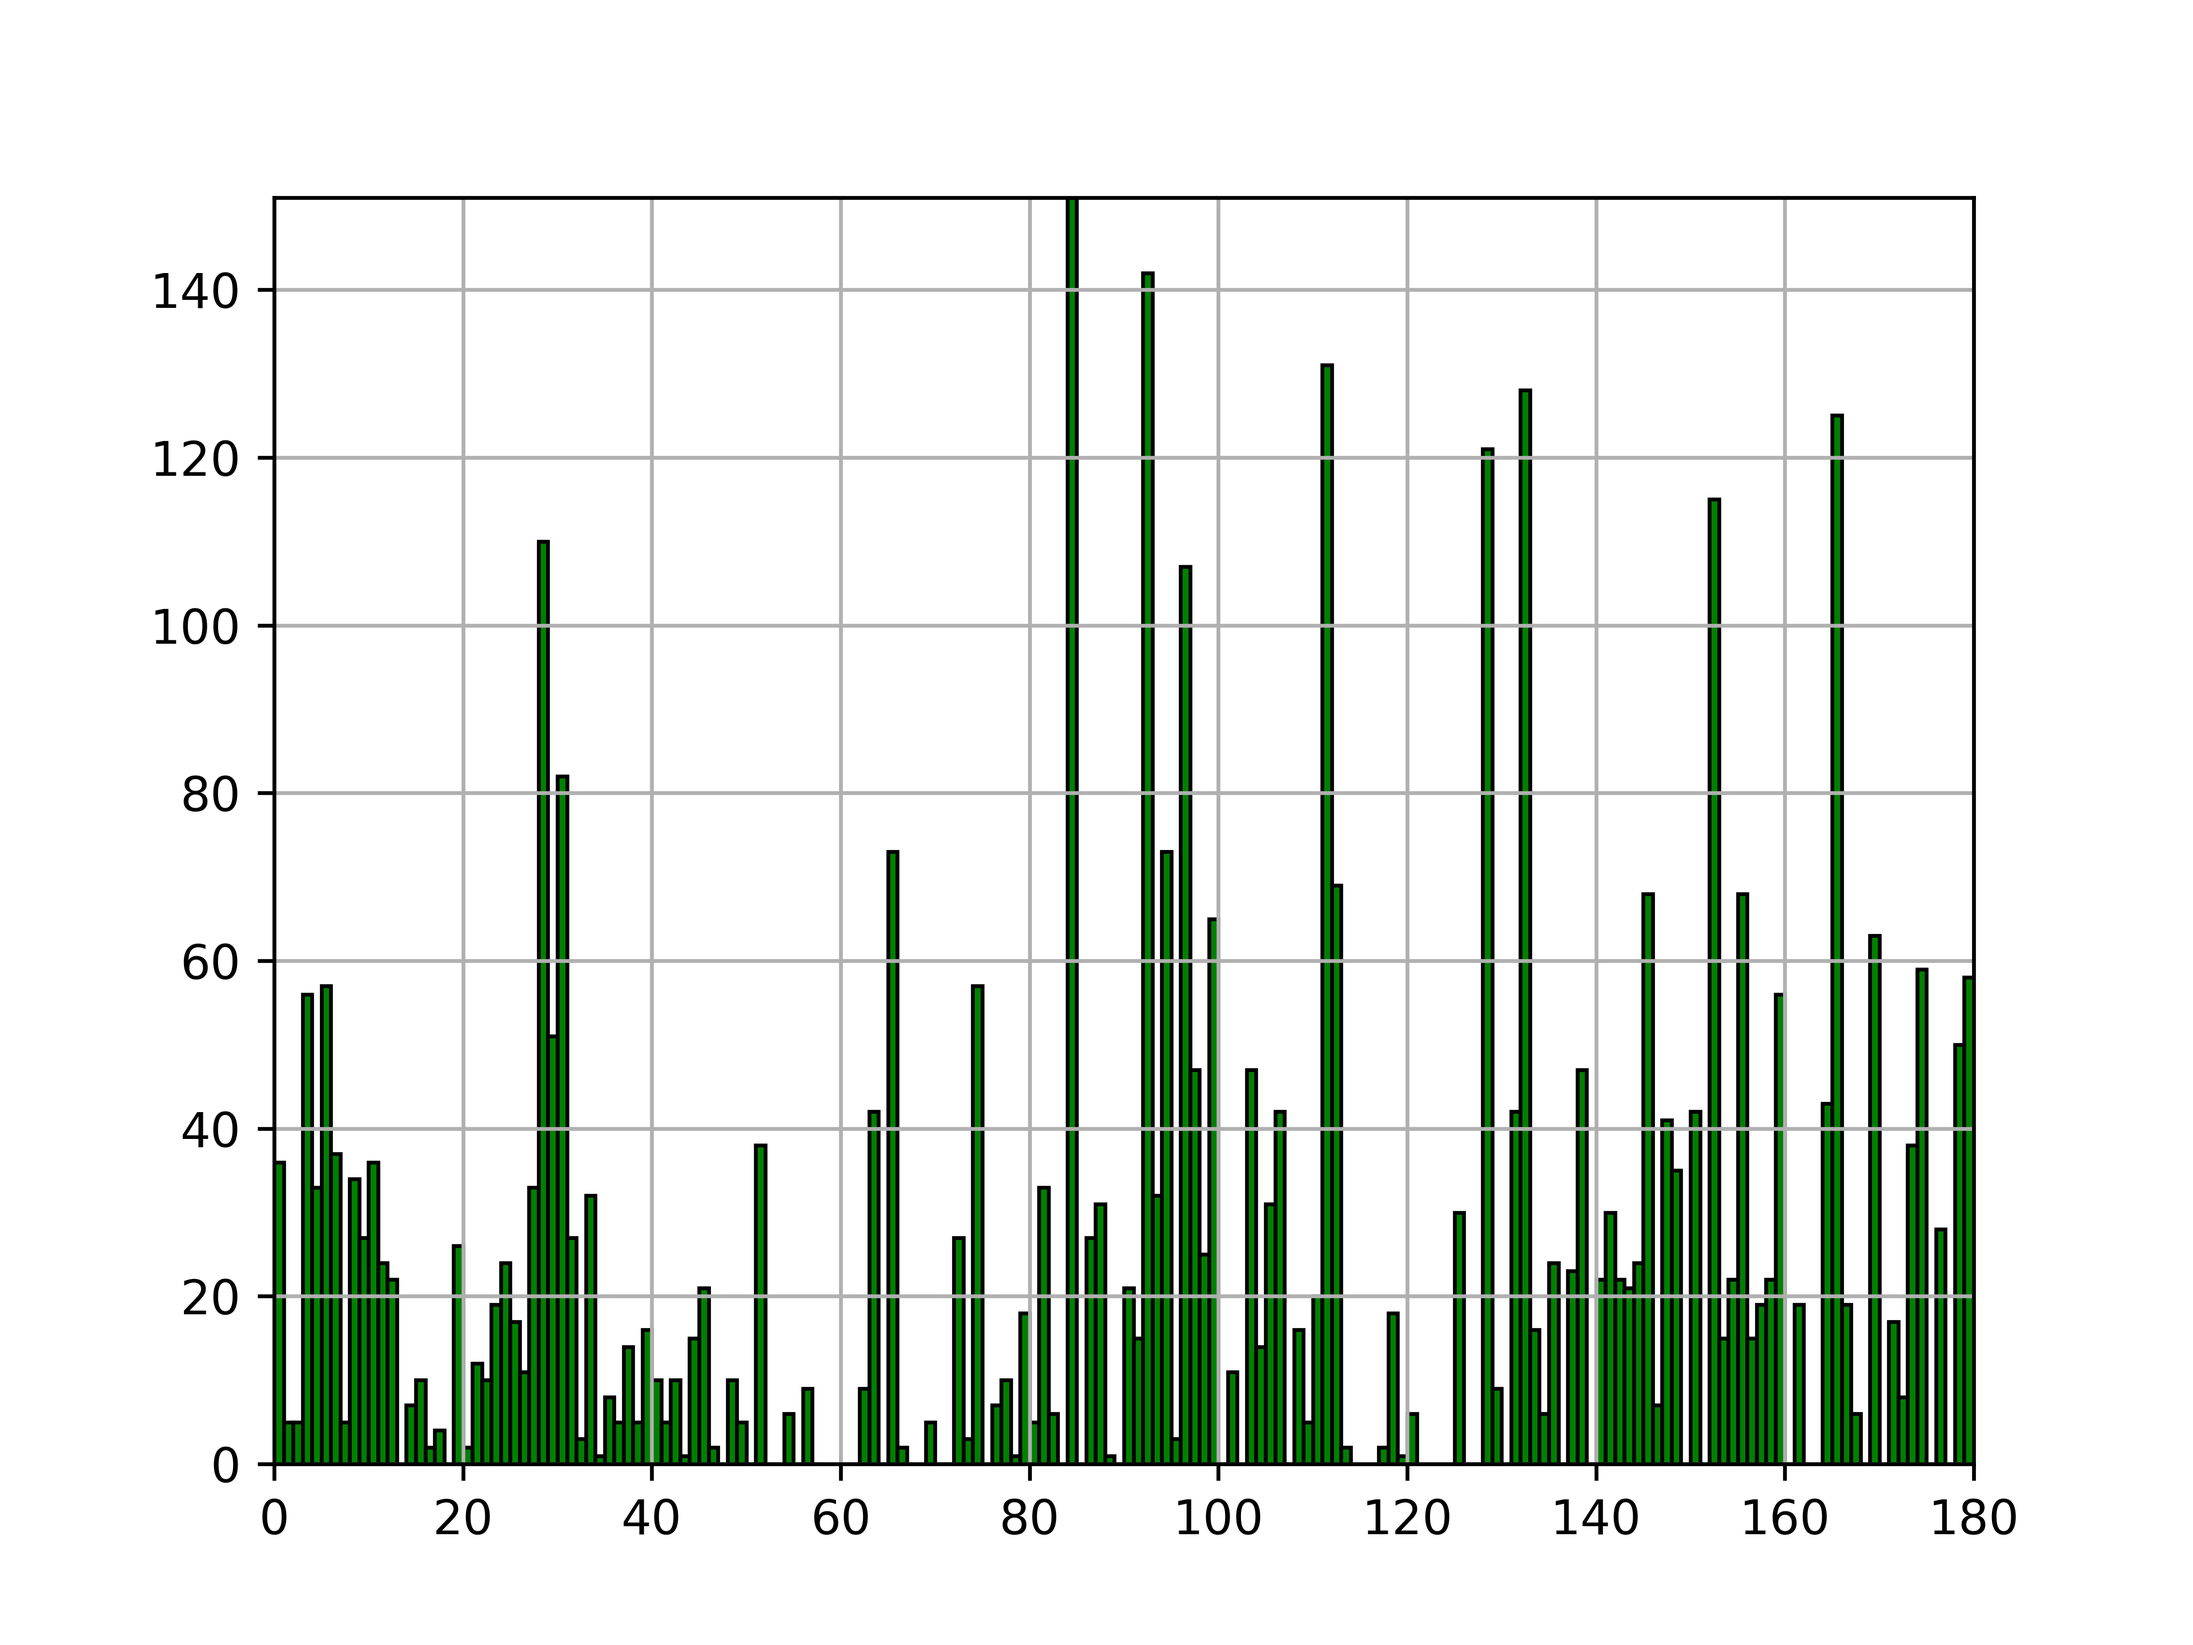
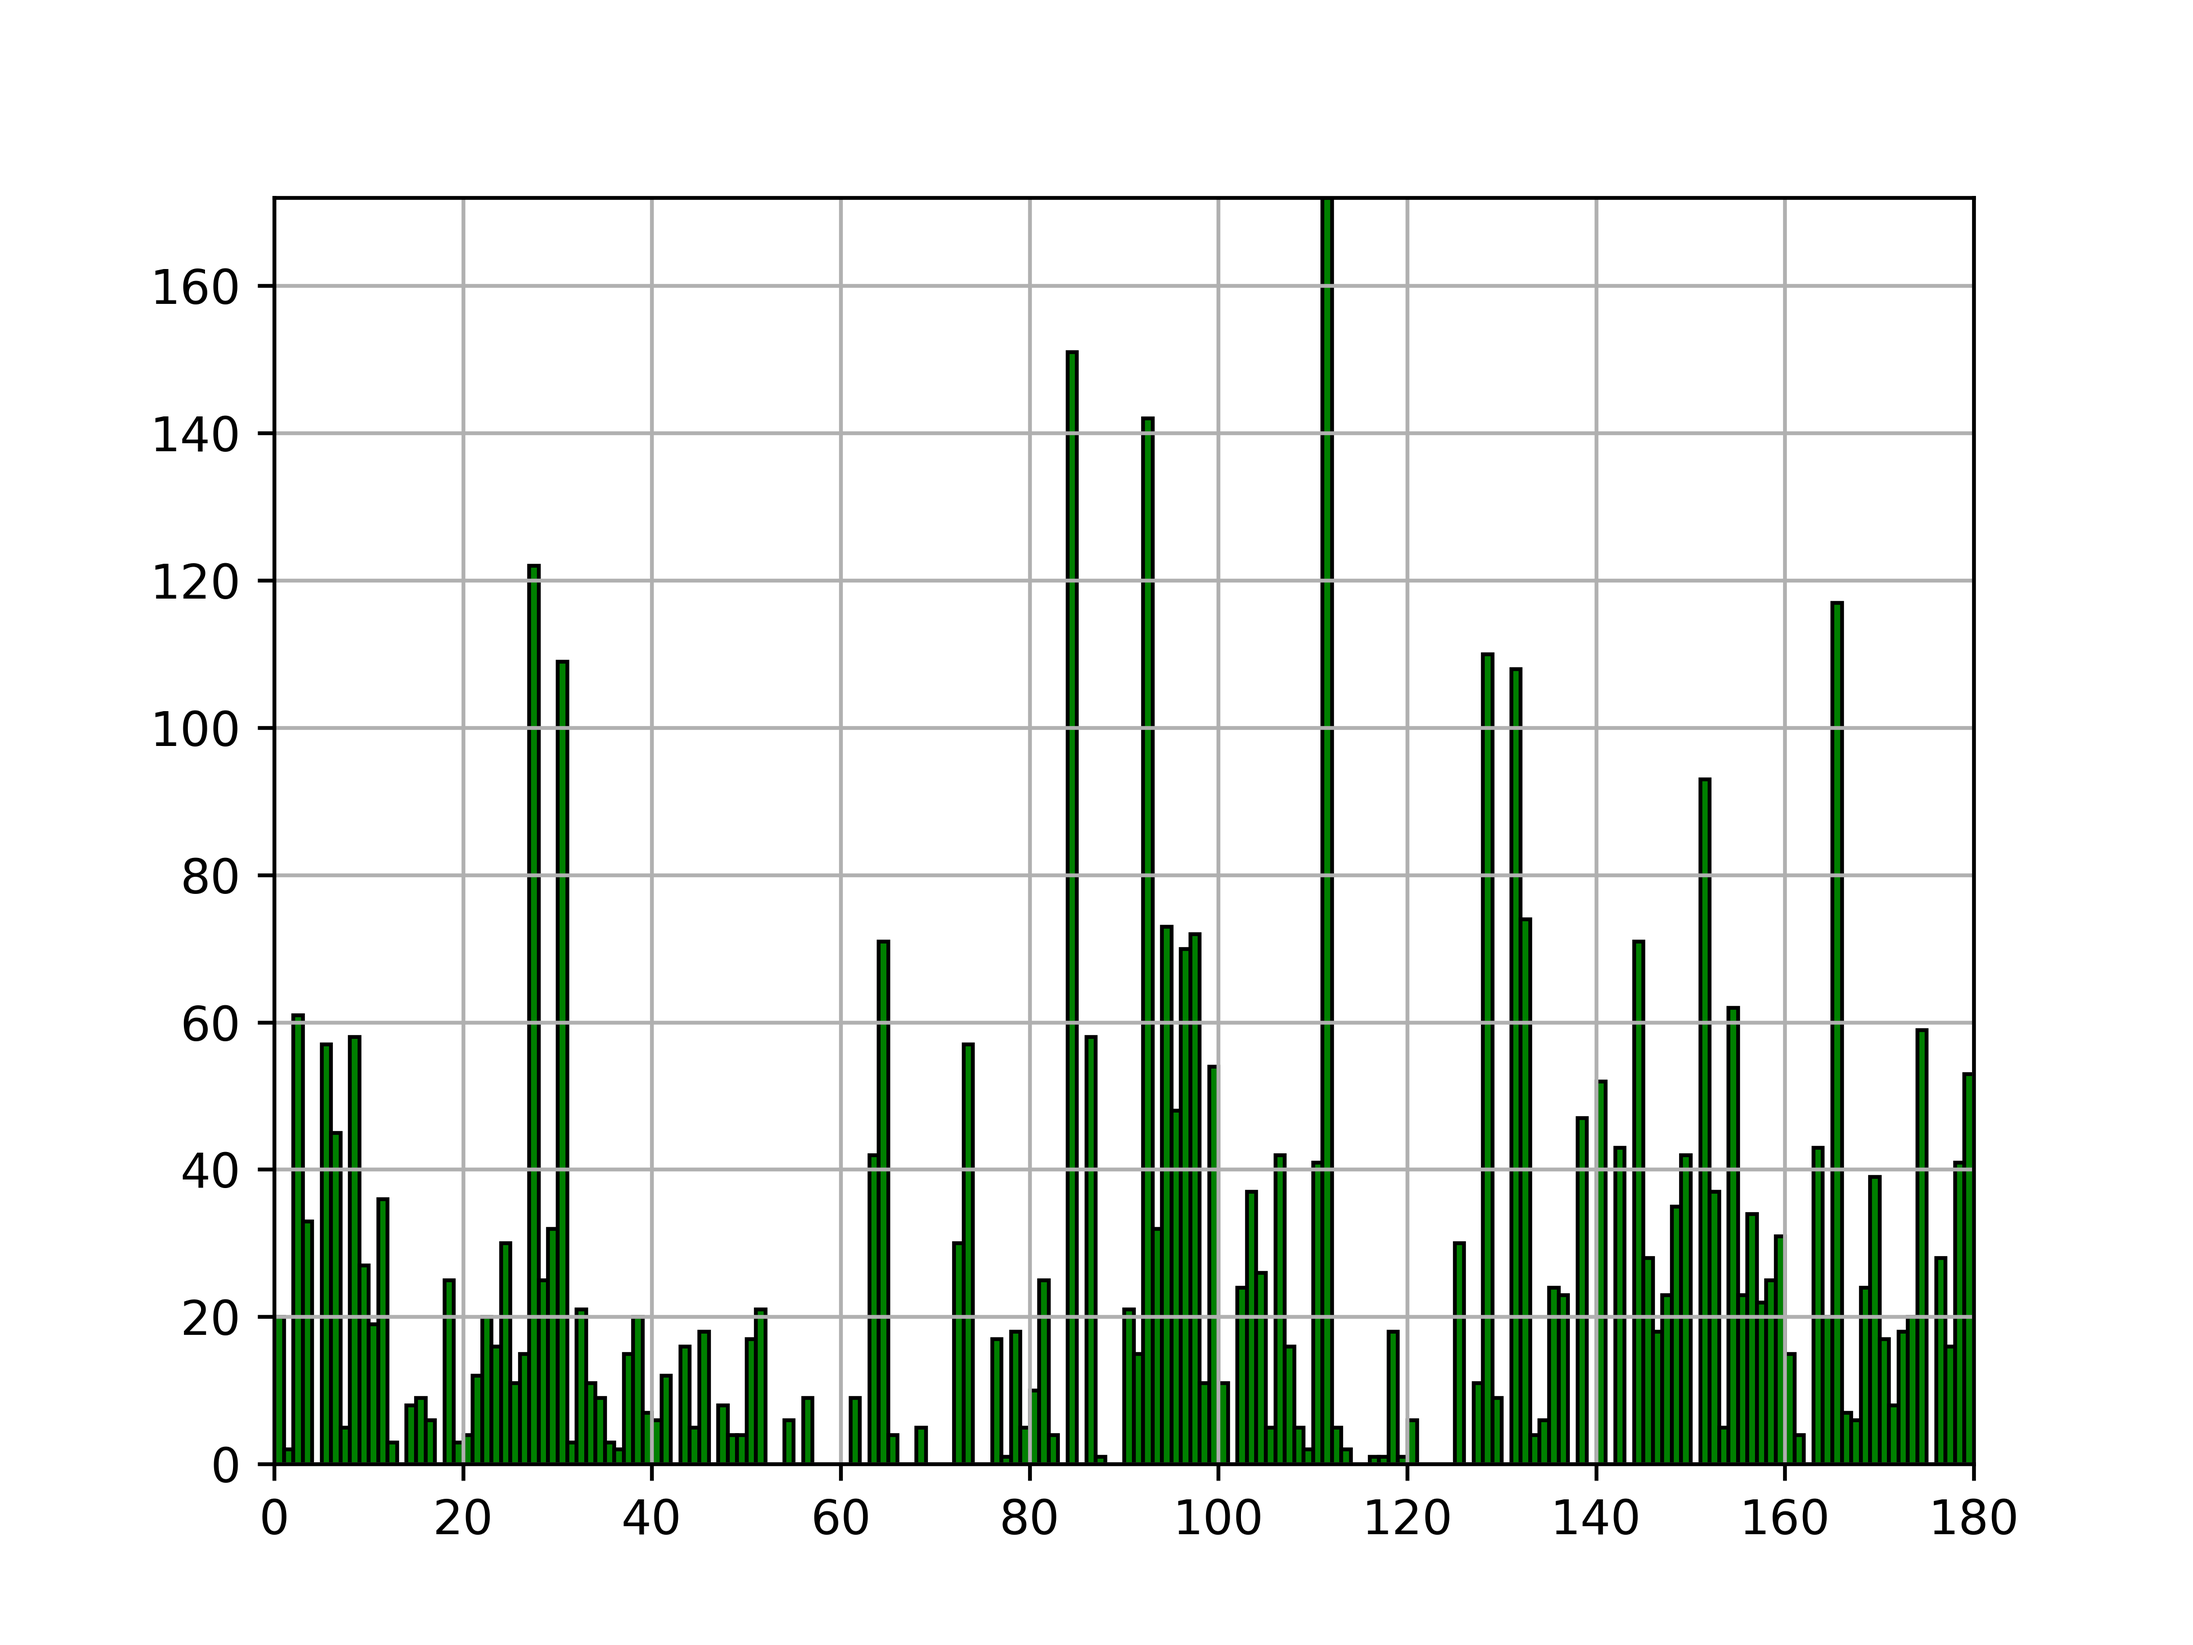
180716

Changed region(s): [[0.0625, 0.125, 0.9062, 0.9062], [0.0625, 0.4375, 0.125, 0.5], [0.0625, 0.3438, 0.125, 0.4062]]

diff --git a/scrape.py b/scrape.py
@@ -137,6 +137,15 @@ with open("stats", "a") as file:
         plt.savefig(os.path.join("graphs", "{}-{}.png".format(course[1], time.strftime("%y%m%d"))), dpi=600)
         plt.clf()
         plt.cla()
+
+        plt.hist(values, bins = max(values), edgecolor = 'black', facecolor = 'green', linewidth=0.8)
+        plt.axis([0, 180, 0, 50])
+        #plt.gca().yaxis.set_major_locator(ticker.MultipleLocator(25))
+        #plt.gca().yaxis.set_minor_locator(ticker.MultipleLocator(5))
+        plt.grid(True)
+        plt.savefig(os.path.join("graphs", "{}-norm-{}.png".format(course[1], time.strftime("%y%m%d"))), dpi=600)
+        plt.clf()
+        plt.cla()
       else:
         print("mean: N/A")
         print("sd: N/A")
